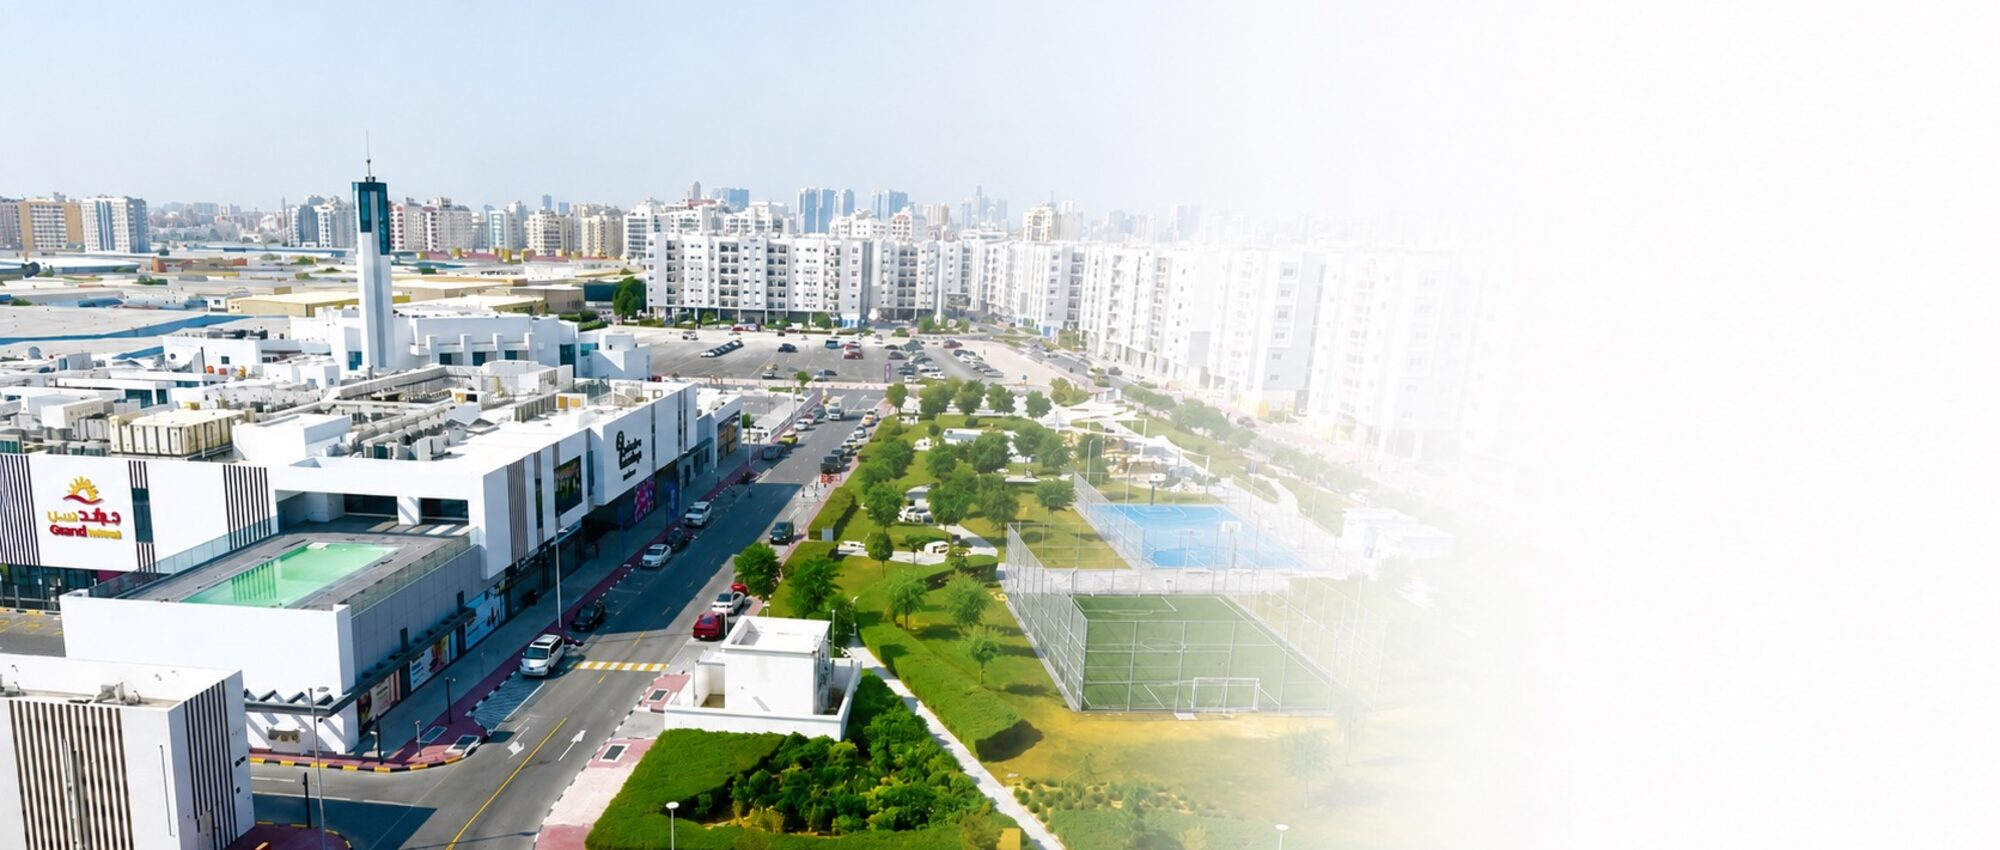
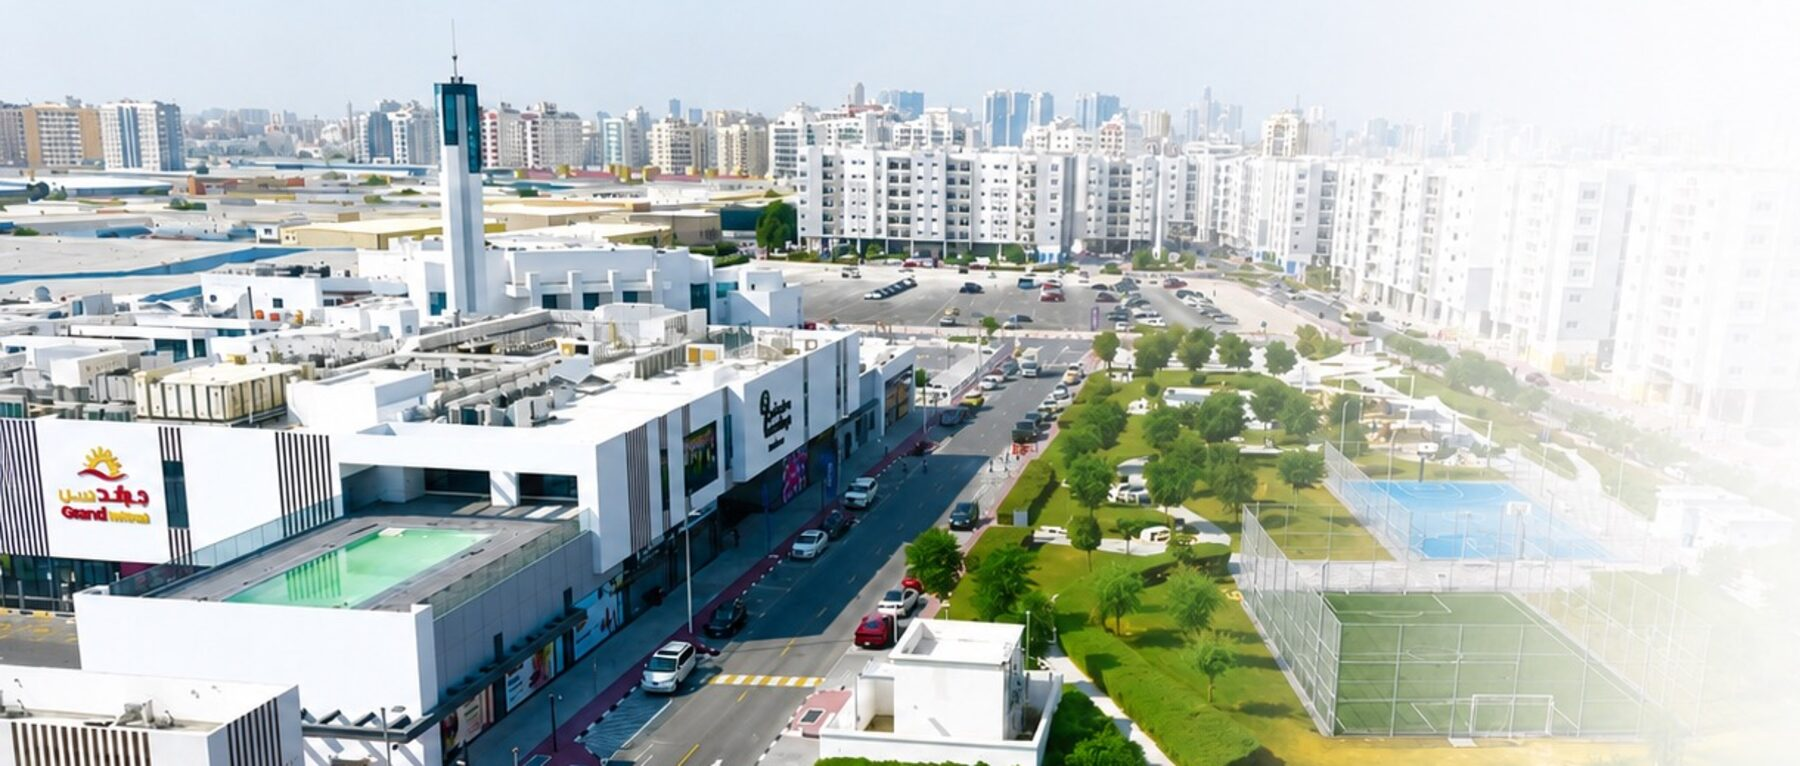
Fix white-faded images and phantom grid cells from client review
The deck's slide-art images carry a baked-in white fade on one side,
which read as blank space on the site: the homepage hero, all six
case-study photos and the Soft FM image are now cropped to their
actual content (the Soft FM crop also corrected to the facade side
of the frame). The five-item framework and other-services grids
previously used a gap-px-over-background technique that rendered the
empty sixth cell as a grey block; both now use real gaps with
bordered tiles so empty cells are invisible.

diff --git a/src/app/services/[slug]/page.tsx b/src/app/services/[slug]/page.tsx
@@ -136,10 +136,10 @@ export default async function ServicePage({
                 </p>
               </div>
             </Reveal>
-            <div className="mt-12 grid grid-cols-1 gap-px overflow-hidden rounded-2xl bg-black/10 sm:grid-cols-2 lg:grid-cols-5">
+            <div className="mt-12 grid grid-cols-1 gap-3 sm:grid-cols-2 lg:grid-cols-5">
               {service.framework.steps.map((step, i) => (
                 <Reveal key={step.title} delay={i * 70} className="h-full">
-                  <div className="flex h-full flex-col bg-mist p-6">
+                  <div className="flex h-full flex-col rounded-2xl bg-mist p-6">
                     <span className="text-sm font-bold text-green">
                       {String(i + 1).padStart(2, "0")}
                     </span>
@@ -200,12 +200,12 @@ export default async function ServicePage({
               Other services
             </h2>
           </Reveal>
-          <div className="mt-10 grid grid-cols-1 gap-px overflow-hidden rounded-2xl bg-black/10 sm:grid-cols-2 lg:grid-cols-5">
+          <div className="mt-10 grid grid-cols-1 gap-3 sm:grid-cols-2 lg:grid-cols-5">
             {otherServices.map((s, i) => (
-              <Reveal key={s.slug} delay={i * 60}>
+              <Reveal key={s.slug} delay={i * 60} className="h-full">
                 <Link
                   href={`/services/${s.slug}`}
-                  className="group flex h-full flex-col justify-between bg-white p-6 transition-colors hover:bg-black"
+                  className="group flex h-full flex-col justify-between rounded-2xl border border-black/10 bg-white p-6 transition-colors hover:border-black hover:bg-black"
                 >
                   <span className="text-sm font-bold text-black transition-colors group-hover:text-white">
                     {s.name}
